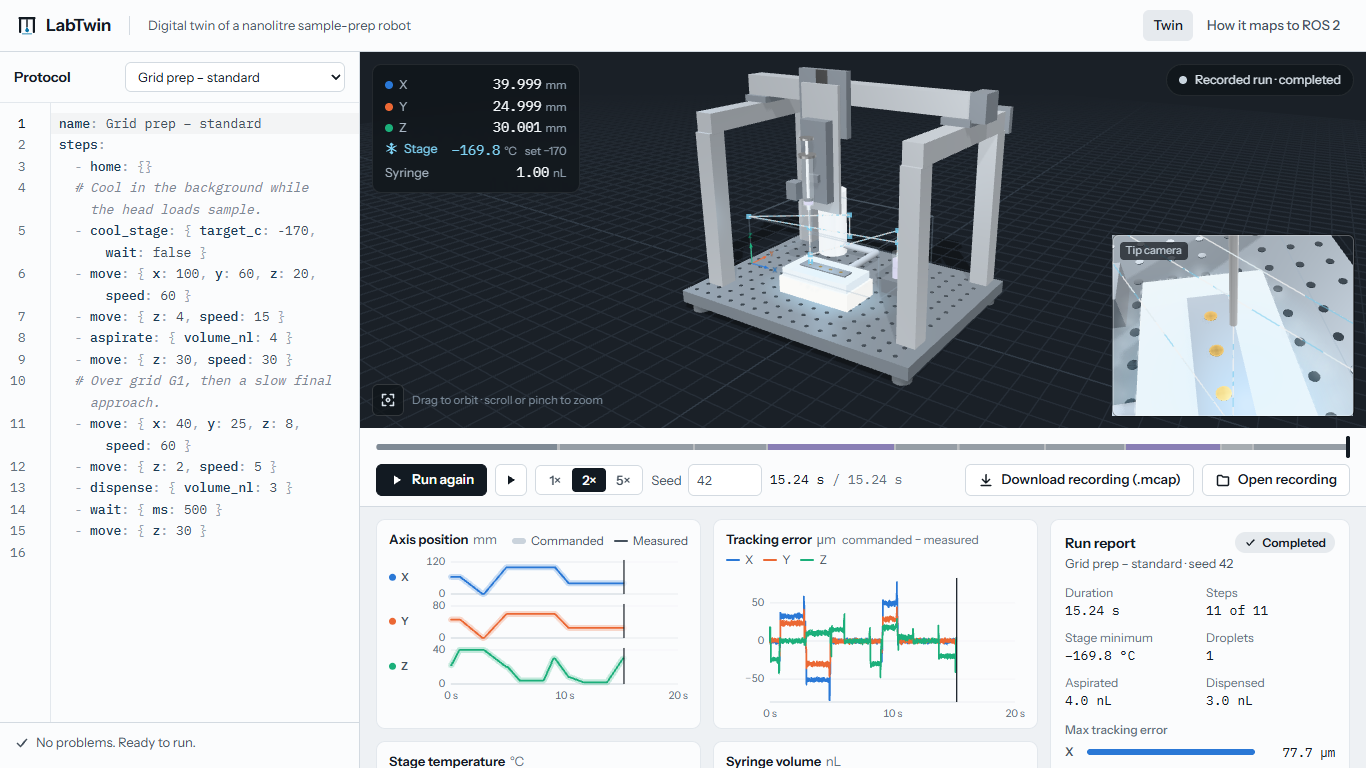
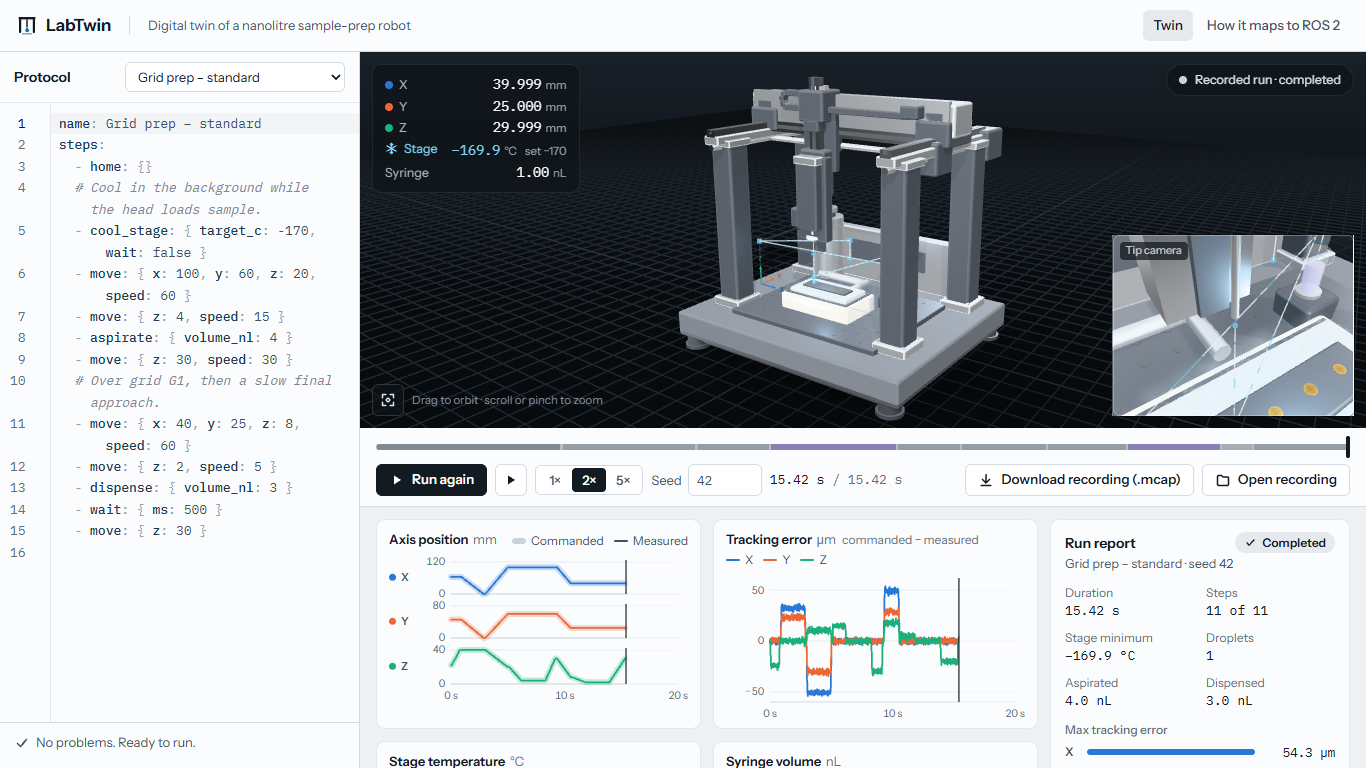
Update docs and screenshots for the new motion model and 3D view
Reflect the jerk-limited S-curve motion and cascaded servo in the
"How it maps to ROS 2" page, the README and the architecture notes
(design decisions, limitations, testing table, test count 73 → 85), and
regenerate the screenshots with the rebuilt precision-instrument machine.

diff --git a/src/ui/ArchitecturePage.tsx b/src/ui/ArchitecturePage.tsx
@@ -113,7 +113,7 @@ function ArchitectureDiagram() {
         y={150}
         w={212}
         title="gantry_driver"
-        sub="trapezoids, 1 kHz servo"
+        sub="S-curve + 1 kHz cascade"
         mirror="ROS 2: action server"
       />
       <Box x={530} y={150} w={190} title="pump_driver" sub="aspirate, dispense" mirror="ROS 2: services" />
@@ -318,6 +318,11 @@ export function ArchitecturePage() {
               <li>
                 <strong>Deterministic simulation.</strong> A fixed 10 ms tick, a fixed node order and seeded
                 noise (integer PRNG, no transcendental functions) give bit-identical runs for the same seed.
+              </li>
+              <li>
+                <strong>Jerk-limited motion, cascaded control.</strong> Moves are coordinated S-curve profiles
+                (bounded velocity, acceleration and jerk); each axis runs a P/PI cascade with velocity and
+                acceleration feed-forward and anti-windup, over a first-order current loop.
               </li>
               <li>
                 <strong>Validate twice.</strong> The validator catches mistakes before anything moves; the

diff --git a/README.md b/README.md
@@ -31,7 +31,7 @@ Everything runs client-side: no backend, nothing leaves the browser.
 | **ROS 2-style node and topic design**                     | Simulated nodes (`gantry_driver`, `pump_driver`, `stage_controller`, `protocol_executor`) talk over typed topics with action-style goals for motion and service calls for the pump and stage, all in simulation time. See [`src/core/nodes`](src/core/nodes) and the in-app page _How it maps to ROS 2_.                                                                                                                                                                        |
 | **Recording and replaying runs with MCAP and a 3D model** | Every run is recorded. _Download recording (.mcap)_ writes JSON channels with JSON Schemas, the protocol as an attachment and run metadata. _Open recording_ replays it with a scrubber. The file also carries `/tf`, `/scene` and `/log` (validated against Foxglove's official schemas), so Foxglove's 3D panel can show the moving gantry. Checked by a round-trip test, an indexed-reader test, the official **Python** `mcap` reader in CI, and a browser end-to-end test. |
 | **Tools that let scientists write and check protocols**   | A YAML editor with live validation: unknown steps and fields (with "did you mean"), types and ranges, axis, speed, volume and temperature limits, ordering ("home before moving", "stage cold before dispensing") and physical warnings (fast approach, off-grid dispense). Every message says what is wrong and how to fix it, and points at the exact token.                                                                                                                  |
-| **Reproducible builds, containers and automated tests**   | A pinned toolchain (`.nvmrc`, `package-lock.json`, `npm ci`) and a multi-stage `Dockerfile` (lint, test, build, then an unprivileged nginx). CI runs lint, 73 unit tests, the build, an MCAP interop check against Python and a Docker smoke test. The simulator is bit-for-bit deterministic for a given seed.                                                                                                                                                                 |
+| **Reproducible builds, containers and automated tests**   | A pinned toolchain (`.nvmrc`, `package-lock.json`, `npm ci`) and a multi-stage `Dockerfile` (lint, test, build, then an unprivileged nginx). CI runs lint, 85 unit tests, the build, an MCAP interop check against Python and a Docker smoke test. The simulator is bit-for-bit deterministic for a given seed.                                                                                                                                                                 |
 | **Code review and documentation**                         | Strict TypeScript, type-aware ESLint with an enforced architecture boundary (`src/core` cannot import React, three.js or DOM APIs), small commits, this README and [`docs/ARCHITECTURE.md`](docs/ARCHITECTURE.md) with the design decisions and trade-offs.                                                                                                                                                                                                                     |
 
 ## Try it in 60 seconds
@@ -46,7 +46,7 @@ Everything runs client-side: no backend, nothing leaves the browser.
 flowchart LR
   P[Protocol YAML] --> V[Validator<br/>fields, limits, dry run]
   V -->|valid| E[protocol_executor<br/>action client]
-  E -->|action /gantry/move| G[gantry_driver<br/>trapezoids, 1 kHz servo]
+  E -->|action /gantry/move| G[gantry_driver<br/>S-curve, 1 kHz cascade]
   E -->|service| PU[pump_driver]
   E -->|service| S[stage_controller]
   G --> T[(Topics<br/>sim time)]
@@ -140,15 +140,15 @@ npm ci
 npm run dev                 # http://localhost:5173
 ```
 
-| Command                                         | What it does                                                                                                                                                         |
-| ----------------------------------------------- | -------------------------------------------------------------------------------------------------------------------------------------------------------------------- |
-| `npm run lint`                                  | ESLint (strict, type-aware) and Prettier check                                                                                                                       |
-| `npm test`                                      | 73 unit tests: validator (every error class), trapezoid profiles, simulator determinism and behaviour, MCAP round trip, indexed reading, Foxglove schema conformance |
-| `npm run build`                                 | type-check, then a production build in `dist/`                                                                                                                       |
-| `npm run e2e`                                   | browser end-to-end: demo run, download .mcap, open it, replay and scrub (needs `npm run dev` and a local Chrome or Edge)                                             |
-| `npm run screenshots`                           | regenerate `docs/screenshots/`                                                                                                                                       |
-| `node scripts/export-sample.ts series out.mcap` | run an example headless with the same core and write an MCAP file                                                                                                    |
-| `python scripts/verify_mcap.py out.mcap`        | verify that file with the official Python reader (`pip install -r scripts/requirements.txt`)                                                                         |
+| Command                                         | What it does                                                                                                                                                                     |
+| ----------------------------------------------- | -------------------------------------------------------------------------------------------------------------------------------------------------------------------------------- |
+| `npm run lint`                                  | ESLint (strict, type-aware) and Prettier check                                                                                                                                   |
+| `npm test`                                      | 85 unit tests: validator (every error class), S-curve and trapezoid profiles, simulator determinism and behaviour, MCAP round trip, indexed reading, Foxglove schema conformance |
+| `npm run build`                                 | type-check, then a production build in `dist/`                                                                                                                                   |
+| `npm run e2e`                                   | browser end-to-end: demo run, download .mcap, open it, replay and scrub (needs `npm run dev` and a local Chrome or Edge)                                                         |
+| `npm run screenshots`                           | regenerate `docs/screenshots/`                                                                                                                                                   |
+| `node scripts/export-sample.ts series out.mcap` | run an example headless with the same core and write an MCAP file                                                                                                                |
+| `python scripts/verify_mcap.py out.mcap`        | verify that file with the official Python reader (`pip install -r scripts/requirements.txt`)                                                                                     |
 
 ## Docker
 
@@ -166,7 +166,7 @@ The build stage pins Node, installs the exact lockfile with `npm ci`, and runs l
 
 ## Limitations
 
-- The physics is a deliberately small model: velocity feed-forward plus a proportional position loop and a first-order drive lag at 1 kHz, with an exponential cooling curve. Time constants are compressed for the demo; a real cryo-stage takes minutes, not seconds.
+- The physics is a deliberately small model: jerk-limited S-curve motion and a cascaded P/PI servo with feed-forward at 1 kHz, plus an exponential cooling curve. Time constants are compressed for the demo; a real cryo-stage takes minutes, not seconds.
 - Droplets are drawn 10× their true size so a few nanolitres are visible.
 - Recordings use JSON with uncompressed chunks (about 1.4 MB for the 15 s demo), which keeps them readable and easy to decode in the browser.
 - Replay reads JSON-encoded MCAP. ROS 2 bags with CDR-encoded messages are listed in the roadmap.
@@ -180,7 +180,7 @@ These are next steps; none of them exist yet.
 3. **Foxglove bridge:** connect the web view to a live robot through the `foxglove_bridge` WebSocket.
 4. **URDF export:** generate URDF/xacro from the machine description in `src/core/geometry.ts`.
 5. **Camera node:** publish the tip camera as `sensor_msgs/CompressedImage`.
-6. **Motion:** S-curve (jerk-limited) profiles, and fault injection such as a stalled axis or a pump occlusion.
+6. **Motion:** input shaping to cancel residual vibration, and fault injection such as a stalled axis or a pump occlusion.
 
 ## License
 

diff --git a/docs/ARCHITECTURE.md b/docs/ARCHITECTURE.md
@@ -47,13 +47,13 @@ Noise comes from per-node streams of a seeded mulberry32 generator. Gaussian noi
 
 - **Tested by:** the same seed gives identical message streams; different seeds change only the measured positions, never the commanded trajectory; and two exports of the same run are byte-identical.
 
-### 3. Motion: coordinated trapezoids and a simple servo model
+### 3. Motion: jerk-limited S-curves and a cascaded servo
 
-A `move` is a straight line of the needle tip. One trapezoidal profile runs along the path, with its velocity and acceleration limits set to the tightest per-axis limits projected onto the direction of travel (`v ≤ vmax_i / |u_i|`). Every axis therefore follows a scaled trapezoid, none exceeds its own limits, and all of them arrive together. That matters for a dispensing tip, which should travel predictably near the grid. If an axis caps the requested speed, the validator warns.
+A `move` is a straight line of the needle tip. One jerk-limited **S-curve** (double-S, 7 phases) runs along the path, with its velocity, acceleration and jerk limits set to the tightest per-axis limits projected onto the direction of travel (`v ≤ vmax_i / |u_i|`, likewise for `a` and `j`). Every axis therefore follows a scaled S-curve, none exceeds its own limits, and all of them arrive together. Bounding jerk makes the command twice differentiable, which is gentler on the hardware and avoids exciting structural vibration — exactly why real motion controllers use S-curves. If an axis caps the requested speed, the validator warns. The plain trapezoid is kept as a tested reference building block (`trajectory.ts`); the S-curve reduces to it as jerk → ∞.
 
-Each axis is modelled as velocity feed-forward plus a proportional position loop (Kp = 120 s⁻¹) driving a first-order drive lag (τ = 8 ms), integrated at 1 kHz. That gives realistic following error: tens of µm while accelerating, a damped transient at each change of acceleration, and close to zero at constant velocity. A move counts as finished once every axis is within 2 µm of its command, like an "in position" window.
+Each axis runs an explicit **cascade** (`nodes/gantry.ts`): a P position loop feeds a PI velocity loop (with an anti-windup clamp on the integrator); velocity and acceleration feed-forward from the trajectory cancel most of the motion, and a first-order current loop (τ ≈ 4.5 ms) keeps acceleration from changing instantly. The feed-forward does the bulk of the work while the loops reject the modelled lag, so the following error is a realistic few tens of µm during jerk and acceleration and close to zero at constant velocity. A move finishes once every axis is within the in-position window (3 µm) and nearly stopped. The control loop acts on the true state; encoder noise is added only to the _published_ measurement, so runs stay deterministic per seed while the measured position still shows sensor noise.
 
-- **Alternatives:** independent per-axis point-to-point moves (curved paths, simpler) or S-curve profiles (no acceleration steps). S-curves are on the roadmap; the acceleration steps of a trapezoid make the servo response easy to see in the tracking-error chart.
+- **Alternatives:** independent per-axis point-to-point moves (curved paths, simpler), or a single global controller instead of a cascade (less like real servo drives, which are built as nested position/velocity/current loops).
 
 ### 4. Validator: two phases, exact spans, and checks again at run time
 
@@ -91,15 +91,15 @@ The three Foxglove JSON schemas used are vendored (about 25 kB instead of the pa
 
 ## Testing strategy
 
-| Layer     | How                                                                                                                                                                         |
-| --------- | --------------------------------------------------------------------------------------------------------------------------------------------------------------------------- |
-| Validator | One test per error class, each warning in isolation, exact spans in flow and block YAML, did-you-mean suggestions, no cascading errors                                      |
-| Planner   | Reaches the target exactly; respects velocity and acceleration limits (sampled finely); triangular case; continuity at phase boundaries; per-axis caps on coordinated moves |
-| Simulator | Determinism; exact pump bookkeeping; cooling curve; publish rates; tracking-error bounds; dispense holds and timeouts; operator stop                                        |
-| MCAP      | Round trip of every topic and value; attachment and metadata; indexed reading (summary, chunk indexes); byte-for-byte reproducibility; plain-language errors for bad files  |
-| Interop   | A Node headless export is verified by the official Python `mcap` reader in CI                                                                                               |
-| Browser   | `npm run e2e`: demo run, real download, real file input, identical report after the round trip, scrubbing                                                                   |
-| Container | CI builds the Docker image and smoke-tests the served page                                                                                                                  |
+| Layer     | How                                                                                                                                                                                                                                                                                          |
+| --------- | -------------------------------------------------------------------------------------------------------------------------------------------------------------------------------------------------------------------------------------------------------------------------------------------- |
+| Validator | One test per error class, each warning in isolation, exact spans in flow and block YAML, did-you-mean suggestions, no cascading errors                                                                                                                                                       |
+| Planner   | S-curve: reaches the target exactly; respects velocity, acceleration and jerk limits (sampled finely); C² continuity; symmetry; a double-integral self-check; the three distance regimes. Coordinated moves: per-axis caps, and acceleration that starts/ends at zero with bounded path jerk |
+| Simulator | Determinism; exact pump bookkeeping; cooling curve; publish rates; tracking-error bounds; dispense holds and timeouts; operator stop                                                                                                                                                         |
+| MCAP      | Round trip of every topic and value; attachment and metadata; indexed reading (summary, chunk indexes); byte-for-byte reproducibility; plain-language errors for bad files                                                                                                                   |
+| Interop   | A Node headless export is verified by the official Python `mcap` reader in CI                                                                                                                                                                                                                |
+| Browser   | `npm run e2e`: demo run, real download, real file input, identical report after the round trip, scrubbing                                                                                                                                                                                    |
+| Container | CI builds the Docker image and smoke-tests the served page                                                                                                                                                                                                                                   |
 
 ## Known limitations
 
